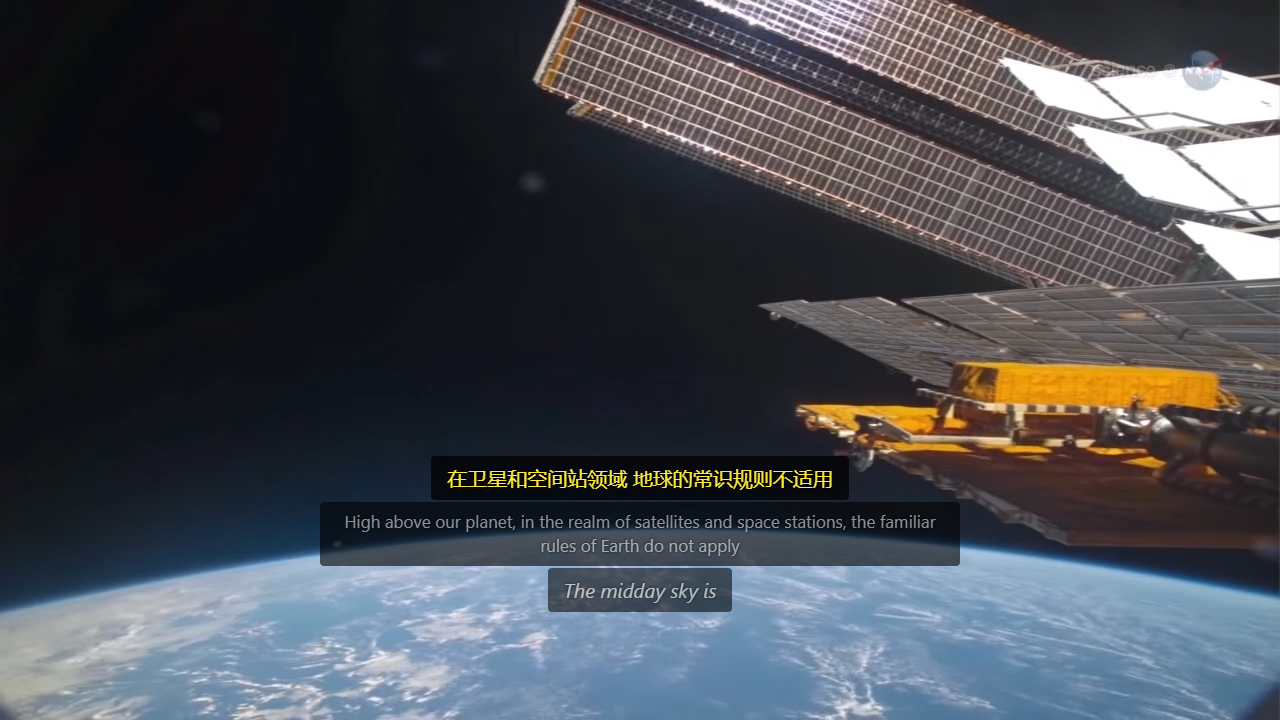
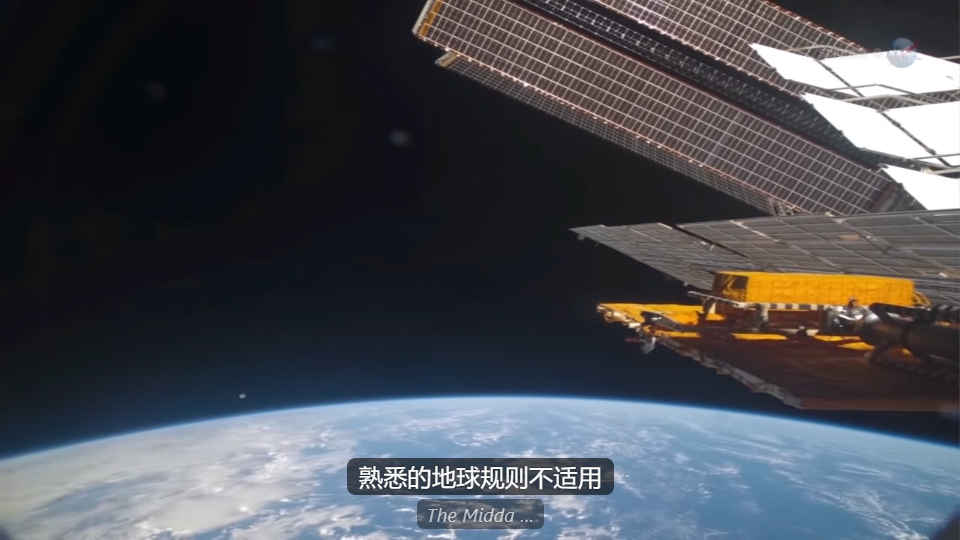
docs: overlay before and after, README, new GIFs
docs/overlay/README.md: the after table on the same clips, layouts
and moments as the baseline (defaults, plus one run with the source
line on), and before / after at the final moment and the run's largest
coverage: NASA fullscreen 11.0 / 20.1 % -> 1.8 / 6.8 %, NASA normal page
19.1 / 38.1 % -> 0 / 0 (below the video), YouTube normal 7.0 / 36.5 %
-> 0 / 0, YouTube fullscreen 3.3 / 18.7 % -> 1.9 / 6.2 %; with the
source line on in fullscreen 3.9 % at the final moment (11.0 % before).
The holding-still and control-bar numbers, the settings added with
their defaults, how to reproduce; 15 after-*.png screenshots.

README: the opening caption (the GIF's run), "What you will see"
(translation only; the spoken words through the popup toggle or
Alt+O), "Using it" gained the overlay's rules, the toggle, the shortcut
and the drag, Alt+O in the shortcuts line, the extension's new display
settings under Configuration, the harness flags under Development, and
one limitation line (one line at a time; below a video the block sits
over the page's text, drag it).

docs/demo-youtube.gif regenerated from a fullscreen live run on the
YouTube page (run 20261002T192730-1b17fa, 9.5 s, 4,559,191 bytes;
docs/live-test-youtube.md has the run). docs/screenshot.png and
docs/demo.gif (NASA clip, source line on, run 20261002T193448-ce54a4)
regenerated too, so the three pictures show the same overlay.

Harness: summary.overlay.most_lines (the sample with the most caption
lines, for diagnosis).

diff --git a/backend/scripts/e2e_extension.py b/backend/scripts/e2e_extension.py
@@ -615,6 +615,7 @@ class GeometryLog:
         self.lines_in_bottom_15 = 0
         self.lines_over_video = 0
         self.controls_overlap = 0
+        self.most_lines = None   # the sample with the most caption lines: types, cues, lengths (for diagnosis)
 
     @staticmethod
     def caption_lines(g: dict) -> list[dict]:
@@ -640,6 +641,9 @@ class GeometryLog:
             self.samples.append({k: g[k] for k in ("t", "coverage", "block")} | {"lines": len(self.caption_lines(g))})
         lines = self.caption_lines(g)
         self.max_coverage = max(self.max_coverage, g["coverage"])
+        if lines and (self.most_lines is None or len(lines) > self.most_lines["n"]):
+            self.most_lines = {"n": len(lines), "t": t, "lines": [{"type": ln["type"], "cue_id": ln["cue_id"], "chars": len(ln["text"]),
+                                                                  "in_progress": ln["in_progress"], "draft": ln["draft"]} for ln in lines]}
         if lines and g["video"]:
             self.with_lines += 1
             v = g["video"]
@@ -696,7 +700,7 @@ class GeometryLog:
                 "partial_updates": {"count": len(self.updates), "heights": heights, "height_changes": max(0, len(heights) - 1),
                                     "position_changes": moves, "first": self.updates[0] if self.updates else None,
                                     "last": self.updates[-1] if self.updates else None},
-                "last_block": last.get("block")}
+                "last_block": last.get("block"), "most_lines": self.most_lines}
 
 
 def test_extension_copy(extension: Path, scratch: Path, extra_origins=()) -> Path:

diff --git a/README.md b/README.md
@@ -15,10 +15,10 @@ you decide it should.
 
 *The first 9.5 seconds of "10,000 রাজভোগের Order | Ora Char Jon | Movie Scene | Prosenjit | Abhishek Chatterjee |
 Debashree" from the YouTube channel Bengali Movies with English Subtitle
-(<https://www.youtube.com/watch?v=-tpVpbIxFmI>), run on CPU: Bengali is detected 1.6 seconds in, the words appear
-as they are spoken (the grey line ending in …), and each line is translated into English above them. Recorded by
-the browser harness during a live test (`docs/live-test-youtube.md`, run `20261002T172649-3fac9e`), not by hand;
-the translations are as they came out, mistakes included.*
+(<https://www.youtube.com/watch?v=-tpVpbIxFmI>), the player in fullscreen, run on CPU: Bengali is detected
+2 seconds in, a first translation of each line appears in italics while it is still being spoken (ending in …),
+and the finished line replaces it. Recorded by the browser harness during a live test (`docs/live-test-youtube.md`,
+run `20261002T192730-1b17fa`), not by hand; the translations are as they came out, mistakes included.*
 
 It is for videos and live streams that have no subtitles, lectures, and meetings held in a browser tab in a language
 you do not speak. A Chrome extension captures the tab's sound, a local Python program turns English, Mandarin or
@@ -112,15 +112,17 @@ The extension asks for no site access when it is installed.
    change all your data on all websites"); click **Allow**. The extension captures this tab's audio only, and you
    keep hearing it.
 
-What you will see: the words in italics on a grey band, ending in "…", while a sentence is being spoken; after a
-second or two a draft translation in italics above them, which may be rewritten as the sentence grows; then the
-finished sentence with casing and punctuation, with its final translation above it. A line ends when the speaker
-pauses, and after 6 seconds at the latest. The default target languages are English and Chinese; a language equal
-to the spoken one is skipped. With *Auto-detect*, what is recognised before the language is known is a guess: it is
-drawn dimmed above a small *Detecting language…* label, and the first line at full brightness is in the detected
-language.
+What you will see: the translation only, in a small box below the video on a normal page, or over the bottom of
+the picture when the video is fullscreen. After a second or two of a sentence a draft translation appears in
+italics, ending in "…", and may be rewritten as the sentence grows; then the finished sentence's translation
+replaces it. The spoken words themselves are not shown unless you ask: the popup's *Show the spoken words under
+the translation* toggle, or **Alt+O** on the page, adds them under the translation, smaller and dimmer, and the
+choice is remembered. A line ends when the speaker pauses, and after 6 seconds at the latest. The default target
+languages are English and Chinese; a language equal to the spoken one is skipped. With *Auto-detect*, what is
+recognised before the language is known is a guess: it is drawn dimmed above a small *Detecting language…* label,
+and the first line at full brightness is in the detected language.
 
-![Live captions on a NASA ScienceCasts video: the translation into Chinese above the English sentence, the next sentence in progress below](docs/screenshot.png)
+![Live captions on a NASA ScienceCasts video filling the window: the translation into Chinese over the bottom of the picture, the spoken words under it](docs/screenshot.png)
 
 *NASA ScienceCasts, "The Zero Gravity Coffee Cup" (public domain), running on CPU.*
 
@@ -159,9 +161,22 @@ Page subtitles from caption mode and your corrections are kept in `backend/data/
 translations are deleted 30 days after their last use. *Settings → Data Management → Clear translation memory*
 deletes everything in it (translations, corrections, glossary) and compacts the file.
 
+**The overlay.** It shows the translation only, at most two rows of about 42 characters (22 for Chinese, Japanese
+and Korean); a longer line keeps its newest words, with "…" at the start. Its font is 4.5 % of the video's height
+(never under 14 px), each line in a rounded box behind the text; *Settings → Display* has the percentage, the
+minimum and the box's opacity, and the popup's **A+** / **A-** change the percentage. On a normal page the block
+sits just below the video; when the video is fullscreen or fills the window it sits over the bottom of the
+picture and moves up while the player's controls are showing. **Drag it** anywhere with the mouse; the place is
+remembered for that site (separately for the page and the fullscreen layouts). **The spoken words** (the
+recognizer's line, growing as it is spoken) are off by default: the popup's *Show the spoken words under the
+translation* toggle or **Alt+O** on the page turns them on, smaller and dimmer under the translation, and the
+choice is remembered. `docs/overlay/README.md` has the measurements (how much of the picture the overlay covers,
+before and after).
+
 **Keyboard shortcuts.** Alt+L start/stop live captions, Alt+T show/hide the overlay, Alt+S swap the two languages,
-Alt+. larger font (the popup also has a smaller-font button), Alt+E edit the current translation. Change them at
-`chrome://extensions/shortcuts`.
+Alt+. larger font (the popup also has a smaller-font button), Alt+E edit the current translation, Alt+O show/hide
+the spoken words. Change the first four at `chrome://extensions/shortcuts` (Alt+E and Alt+O are handled on the
+page: Chrome allows four changeable shortcuts per extension).
 
 **When something does not work**
 
@@ -283,6 +298,7 @@ Two findings from building it:
 ## Configuration
 
 **In the extension:** the popup's **Settings** link opens the options page: languages, line layout and colours,
+the overlay's font (a percentage of the video's height, its minimum in px) and the box behind the text,
 live-caption language and engine, caption mode, the optional refinement, and data management.
 
 **In the backend:** environment variables, or the same names in `backend/.env` (copy `backend/.env.example`, which
@@ -464,7 +480,11 @@ demo and the screenshot in this README. `--url URL --targets auto --lines 5` liv
 (without it Chrome drops the clip's first few hundred milliseconds from the capture).
 `--correct --correct-text TEXT` corrects the first translated line with Alt+E and reports whether the page's video
 was disturbed by the typing; `--tm FILE` keeps the scratch translation memory between two runs (never a file under
-`backend/data`).
+`backend/data`). `--geometry` reads the overlay's lines and block against the video's rectangle every tick (coverage,
+placement, `--partial-updates N` the block's box at N partial-text changes), `--shots DIR --shot-name NAME`
+screenshots three moments, `--layout page|fill` chooses the harness page (a player in a page column, or the video
+filling the viewport), `--fullscreen` puts a `--url` page's player into fullscreen, `--show-source` turns the spoken
+words on, `--hover-controls` keeps the mouse over the player so its control bar shows (`docs/overlay/README.md`).
 
 **Run logs and the failure report.** Every backend run writes one JSON line per event to
 `backend/logs/run_<run_id>.jsonl` (stage, event, duration, error type; the extension's events arrive through
@@ -518,6 +538,9 @@ Windows (`.github/workflows/ci.yml`). `DEVLOG.md` is the project history; every 
   words into "We were married in July 1955." (`docs/latency.md`).
 - Fast dialogue with pauses under half a second still runs two sentences into one line (up to the 6-second cut;
   `docs/observations.md`, A9, and `docs/latency.md`).
+- The overlay shows one line at a time: the previous sentence's translation stays only until the next sentence's
+  first draft arrives (about 1.3 s into it). Below a video on a normal page the block sits over whatever the page
+  has there (on YouTube, the title); drag it elsewhere if that is in the way.
 - Korean and Portuguese targets stay untranslated with OPUS-MT (no model from English).
 - Sites that protect their audio (DRM) give silence; the popup then says no audio is reaching the capture.
 - Chrome's built-in on-device translator (Chrome 138+, *Prepare on-device translation* in the popup) is wired in but

diff --git a/docs/overlay/README.md b/docs/overlay/README.md
@@ -51,3 +51,84 @@ fullscreen runs (0 of 93 and 0 of 95 samples): it was fixed at 15 % of the *view
 above the bottom 15 % band, and on a normal page it hung below the player.
 
 ![Before: the NASA clip on a normal page, three bars over the lower picture and the page text](before-nasa-normal-final.png)
+
+## After (the overlay batches, commits `f0600be`, `2b70045`, `94afd11`)
+
+What changed, in the order the batches made it:
+
+1. **Show less.** The translation only, by default; the source line (the spoken words) is off, and the popup's
+   toggle *Show the spoken words under the translation* or **Alt+O** on the page turns it on (remembered,
+   `showOriginal`). On, it is 0.8x the translation's font and at 0.7 opacity. Every line is at most 2 rows of 42
+   characters (CJK: 22); a longer text keeps its newest words with an ellipsis at the start. The font is 4.5 % of
+   the video element's height (`fontScalePct`), never under 14 px (`fontMinPx`). The background is a rounded box
+   behind the text only (`overlayBgOpacity` 0.6), not a bar across the picture.
+2. **Where the video is not.** When the video does not fill the viewport (under 95 % of its width or 90 % of its
+   height, not fullscreen) the block sits directly below the video's bottom edge, in the page's space; fullscreen,
+   or a video that fills the viewport, or no room below: over the video's bottom with a margin of 2 % of its height,
+   and above the site's control bar while that is showing (YouTube's `.ytp-chrome-bottom` by name, any other
+   site's by its place: a visible element anchored at the video's bottom edge, wider than half the video and under
+   30 % of its height). The block can be dragged; the offset is remembered per site origin and placement mode.
+   The block holds one text per role, the newest: the open line's draft or the last line's final translation, and
+   (source on) the line being recognised or the last line's words. The previous stacking of the last line, the next
+   line's draft and its partial (up to six rows) is gone: that is what keeps the block at two rows per role.
+3. **No jumping.** The stack reserves its height (two rows per configured translation role, two rows of the smaller
+   font when the source line is on), and partial text is updated in the same element, so the block's box does not
+   change while a line streams.
+
+Same clips, layouts, viewport and moments as before; the defaults (source line off), except the last row:
+
+| Clip, layout | run_id | idle | partial | final | max in the run | Block against the video | Screenshots |
+|---|---|---|---|---|---|---|---|
+| NASA, fullscreen | `20261002T192153-7ccd10` | 0.0 % | 1.8 % | 1.8 % | 6.8 % | over its bottom, inside the bottom 15 % in 94 of 94 samples | `after-nasa-fullscreen-*.png` |
+| NASA, normal | `20261002T192235-1c0c81` | 0.0 % | 0.0 % | 0.0 % | 0.0 % | below it in 96 of 96 samples, never intersecting | `after-nasa-normal-*.png` |
+| YouTube, normal | `20261002T192324-2bc1df` | 0.0 % | 0.0 % | 0.0 % | 0.0 % | below it in 95 of 95 samples, never intersecting | `after-youtube-normal-*.png` |
+| YouTube, fullscreen | `20261002T192408-295079` | 0.0 % | 2.4 % | 1.9 % | 6.2 % | inside the bottom 15 % in 93 of 93 samples | `after-youtube-fullscreen-*.png` |
+| NASA, fullscreen, source line on | `20261002T192916-62a7be` | 0.0 % | 2.1 % | 3.9 % | 10.7 % | over its bottom; four rows reserved, so above the 15 % band | `after-nasa-fullscreen-source-*.png` |
+
+Before and after, the final moment / the largest coverage in the run:
+
+| Clip, layout | Before | After (defaults) |
+|---|---|---|
+| NASA, fullscreen | 11.0 % / 20.1 % | 1.8 % / 6.8 % |
+| NASA, normal page | 19.1 % / 38.1 % | 0 / 0 (below the video) |
+| YouTube, normal page | 7.0 % / 36.5 % | 0 / 0 (below the video) |
+| YouTube, fullscreen | 3.3 % / 18.7 % | 1.9 % / 6.2 % |
+
+The "max" figures before were the moments when three bars were up (the last line's translation and source, the
+next line's partial); after, the largest is a two-row draft. With the source line on in fullscreen the final
+moment is 3.9 % (11.0 % before).
+
+![After: the NASA clip on a normal page, the translation below the picture](after-nasa-normal-final.png)
+
+![After: the YouTube page in fullscreen, a draft translation at the bottom](after-youtube-fullscreen-partial.png)
+
+**Holding still.** With the source line on (the line in progress is rewritten at every partial result) the
+block's box was read at each partial-text change, polled every 40 ms: the harness page with the looping English
+sample, 50 consecutive updates, one block height, 0 position changes; the live clip on the YouTube page (run
+`20261002T191908-5c5f3f`), 49 updates over 44 s (then music), one height (89 px), 0 position changes.
+
+**Controls.** With the harness page's control bar showing (`--hover-controls`, the mouse kept over the player)
+the lines never overlapped it in 91 samples (run `20261002T185836-c89f51`); on YouTube in fullscreen with the
+bar showing, 0 overlaps in 74 samples and the block still inside the bottom 15 % (`20261002T190628-ccbc91`).
+
+**Tests.** Layout math and the overlay's rules under node: `extension/tests/overlay-layout.test.js`,
+`overlay-placement.test.js`, `overlay-stable.test.js`. In the browser (slow, `backend/tests/test_overlay_browser.py`):
+below the video and never over it on the page layout; inside the bottom 15 % when it fills the viewport; clear of
+the control bar; one height and no moves across 50 partial updates; the YouTube page behind `ST_YOUTUBE_URL`.
+
+**Settings added** (extension, `chrome.storage.local.settings`; Options → Display):
+
+| Key | Default | |
+|---|---|---|
+| `showOriginal` | `false` | the source line under the translation (popup toggle, Alt+O); was `true` |
+| `fontScalePct` | `4.5` | font size as a percentage of the video element's height |
+| `fontMinPx` | `14` | the smallest font, for small embeds |
+| `overlayBgOpacity` | `0.6` | the rounded box behind each line |
+| `fontSize` | `20` | (existing) px, now only while no video element is known |
+| `maxLines`, `maxCharsLatin`, `maxCharsCJK` | `2`, `42`, `22` | (existing) now also the overlay's own cap per line |
+| `overlayOffsets` (own key) | `{}` | dragged offsets: `{origin: {page: {dx, dy}, overlay: {dx, dy}}}` |
+
+**Reproducing.** `backend/scripts/e2e_extension.py --start-backend --path audio --video CLIP --source en --targets zh
+--prime-audio --size 960x540 --hold 20 --layout page|fill --geometry --shots docs/overlay --shot-name NAME`, and
+`--url URL --source auto --targets auto --headful [--fullscreen]` for the YouTube page; `--show-source`,
+`--hover-controls`, `--partial-updates 50` as above. The NASA clip is the one `make_demo_gif.py` downloads.

diff --git a/DEVLOG.md b/DEVLOG.md
@@ -725,3 +725,20 @@ D4 cloud providers off by default, keys only in backend config.
   `20261002T191908-5c5f3f`), 49 updates over 44 s (then music), one height (89 px), 0 position changes
   (`test_the_block_holds_still_on_the_live_clip`, behind `ST_YOUTUBE_URL`, accepts 40+ updates). The harness
   starts the geometry clock at capture for the looping WAV page. Tallies: fast 334, slow 42, node 125.
+- Batch 4 (document and compare; commit "docs: overlay before and after, README, new GIFs"). `docs/overlay/
+  README.md`: the after table (same clips, layouts and moments; defaults, plus one run with the source line on),
+  before / after at the final moment and the run's largest coverage: NASA fullscreen 11.0 / 20.1 % -> 1.8 / 6.8 %,
+  NASA normal page 19.1 / 38.1 % -> 0 / 0 (below the video), YouTube normal 7.0 / 36.5 % -> 0 / 0, YouTube
+  fullscreen 3.3 / 18.7 % -> 1.9 / 6.2 %; source line on in fullscreen 3.9 % at the final moment (11.0 % before);
+  the holding-still and controls numbers, the settings added with their defaults, how to reproduce; 15 after
+  screenshots. README: the opening caption (fullscreen run `20261002T192730-1b17fa`), Quickstart's "What you will
+  see" (translation only; the words via the toggle / Alt+O), "Using it" gained **The overlay** (two rows, the font
+  rule, below / over the video, the controls, the drag, the spoken words) and Alt+O in the shortcuts line (handled
+  on the page: four changeable shortcuts per extension), Configuration's extension line, the harness flags under
+  Development, one limitation line (one line at a time; the block below a video sits over the page's text there,
+  drag it). `docs/demo-youtube.gif` regenerated from the fullscreen run (9.5 s, 4,559,191 bytes);
+  `docs/screenshot.png` and `docs/demo.gif` (NASA clip, source line on, run `20261002T193448-ce54a4`, 12 s,
+  5,021,239 bytes) regenerated too, so the three pictures show the same overlay; `docs/live-test-youtube.md` has
+  the run. Harness: `summary.overlay.most_lines` (the sample with the most caption lines, for diagnosis). Found on
+  the way: a relative `--screenshot` path is resolved against the harness's working directory (it wrote
+  `backend/docs/screenshot.png` once; removed, not committed). Tallies: fast 334, slow 42, node 125.
